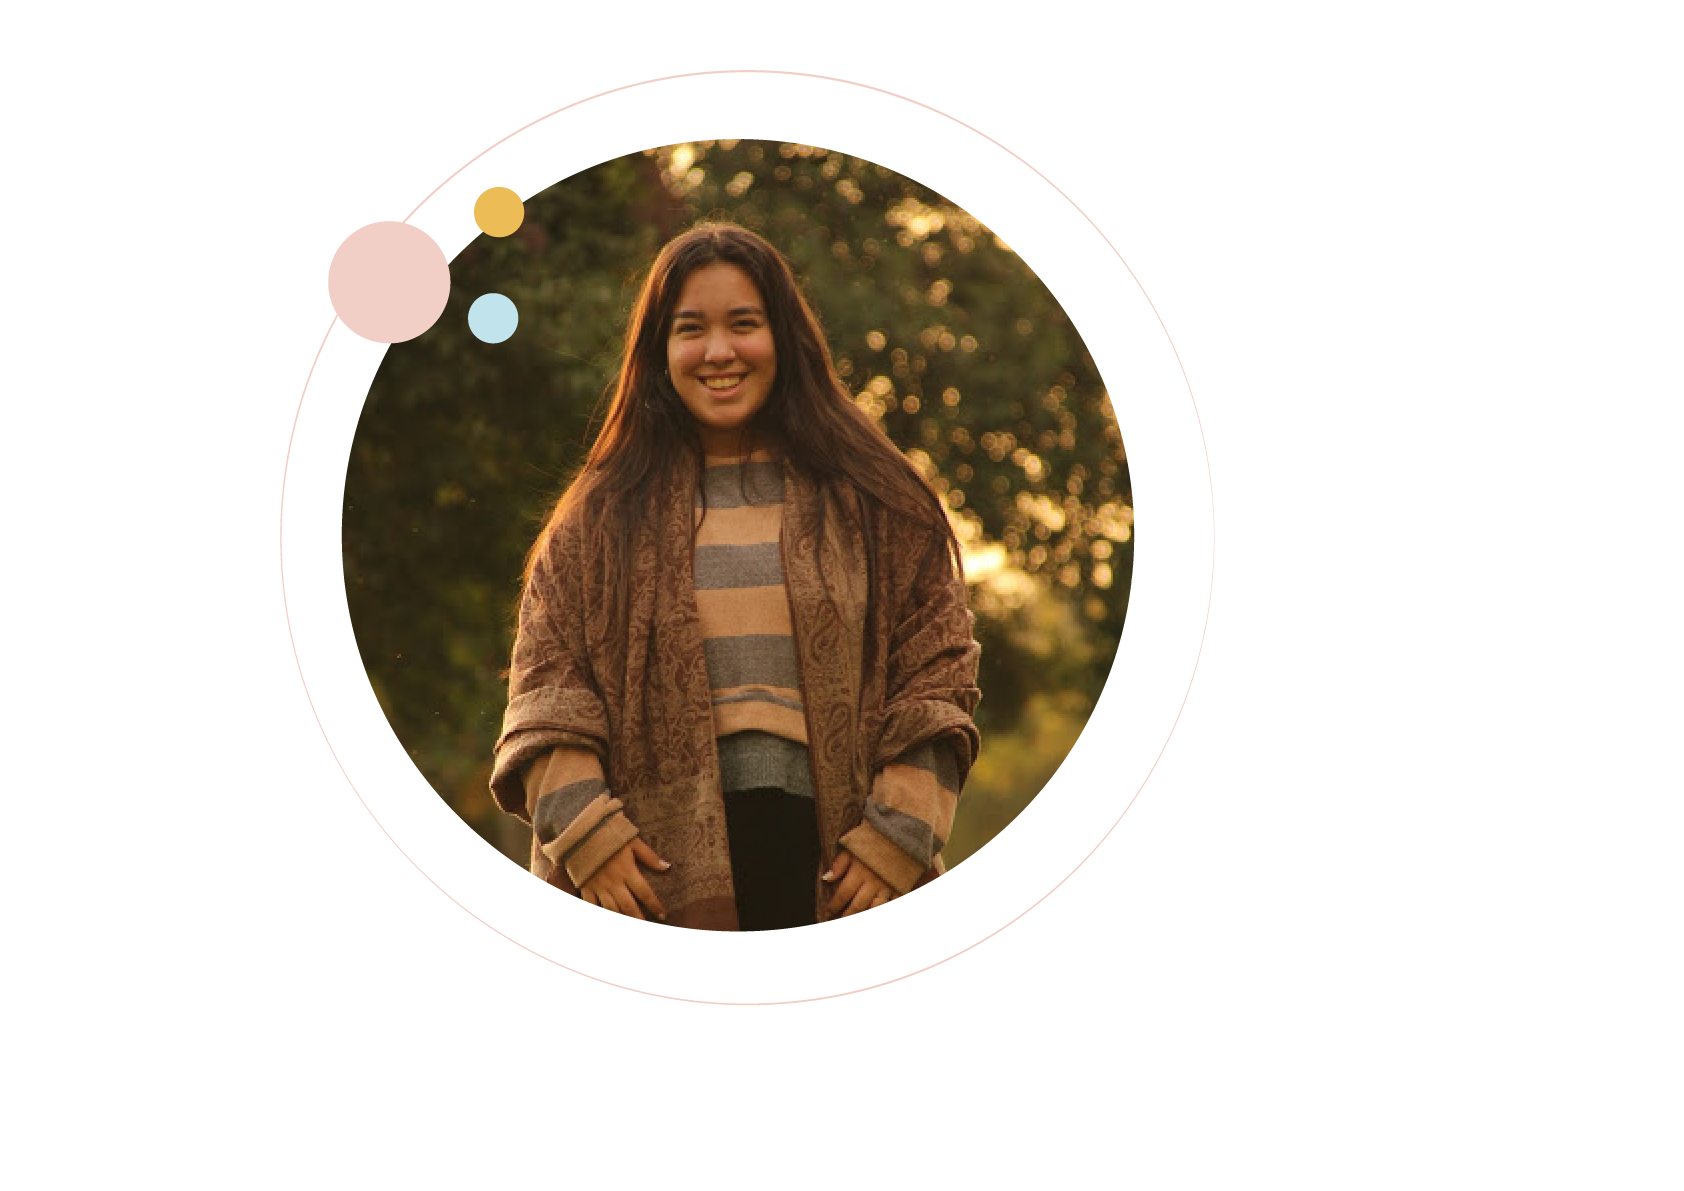
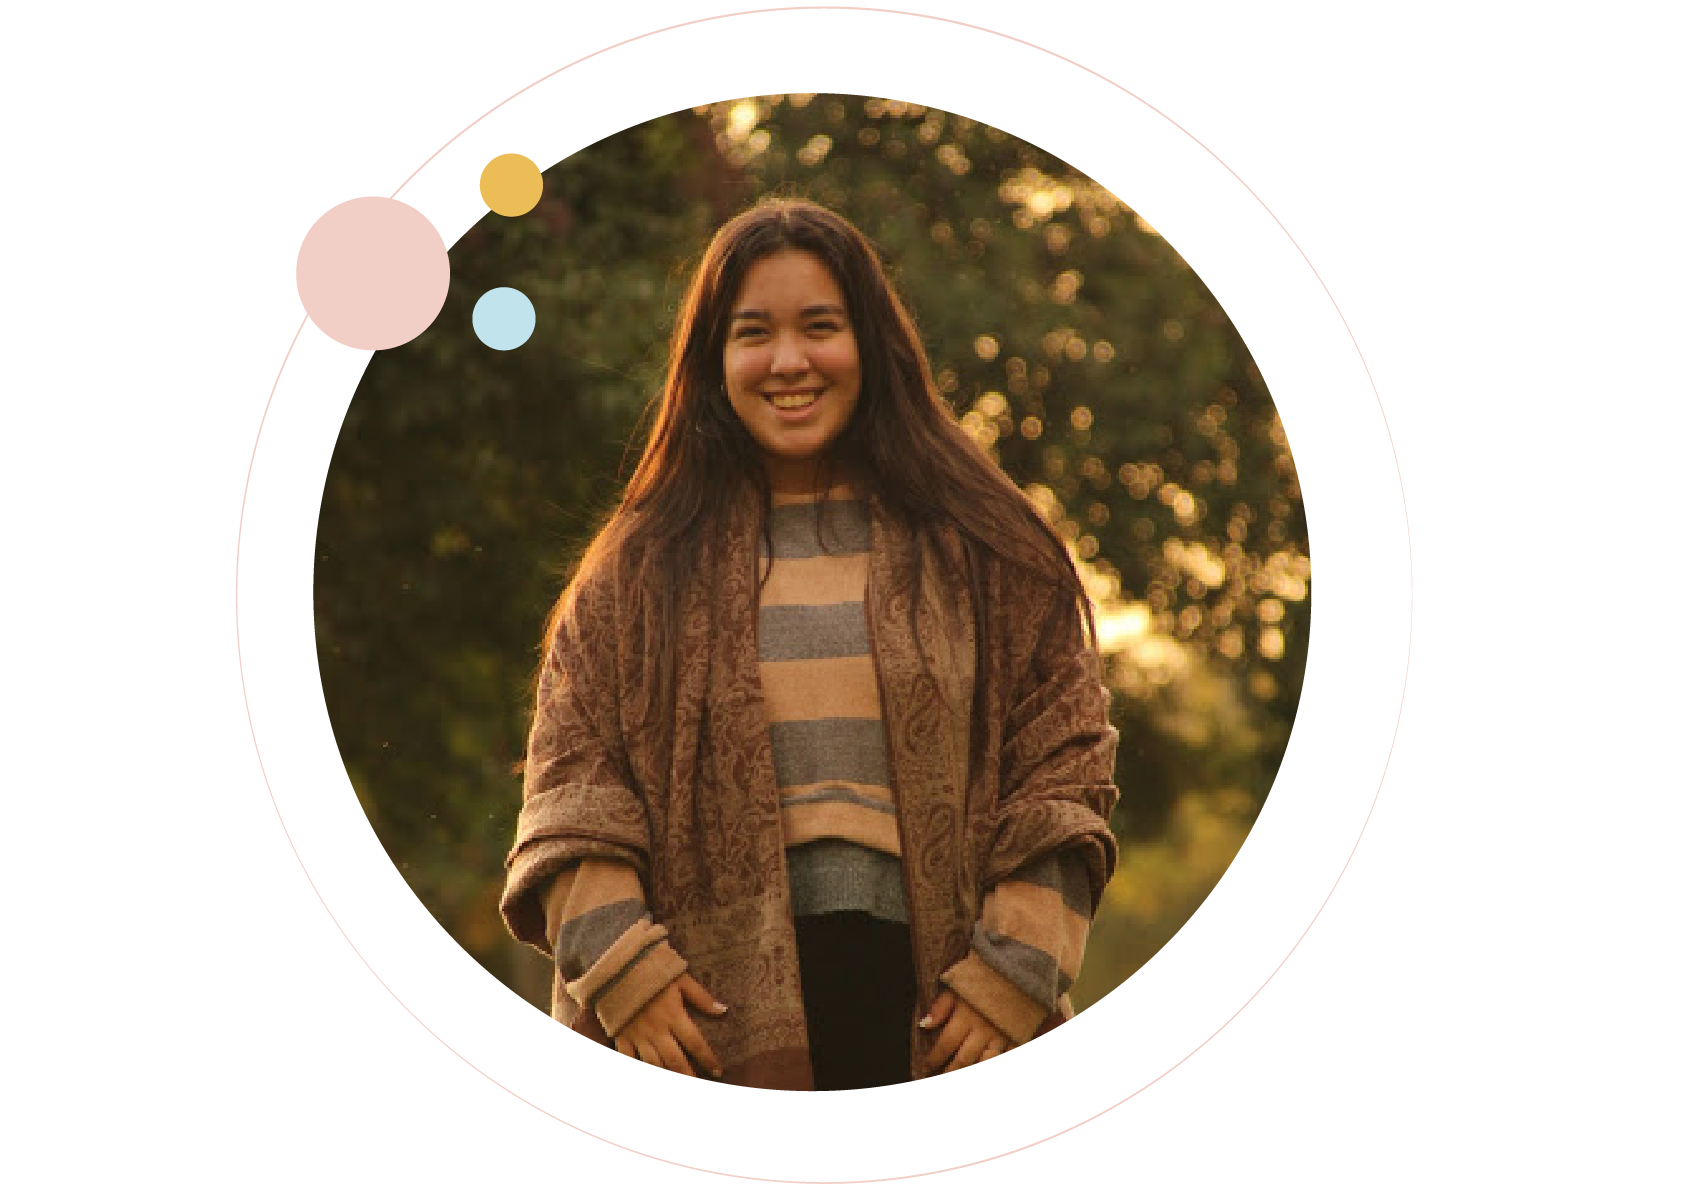
cambios de foto en sobre mi

Changed region(s): [[0.1544, 0.0621, 0.8029, 0.932], [0.247, 0.4039, 0.2779, 0.466]]

diff --git a/secciones/sobreMi.html b/secciones/sobreMi.html
@@ -42,7 +42,7 @@
     <section class="container">
       <div class="row">
 <div class="col-4">
-  <img src="../imagenes/IMG_6386.JPG" alt="foto mia" class="img-fluid">
+  <img src="../imagenes/yo.png" alt="foto mia" class="img-fluid">
 </div>
 
         <div class="informacion col-8">
